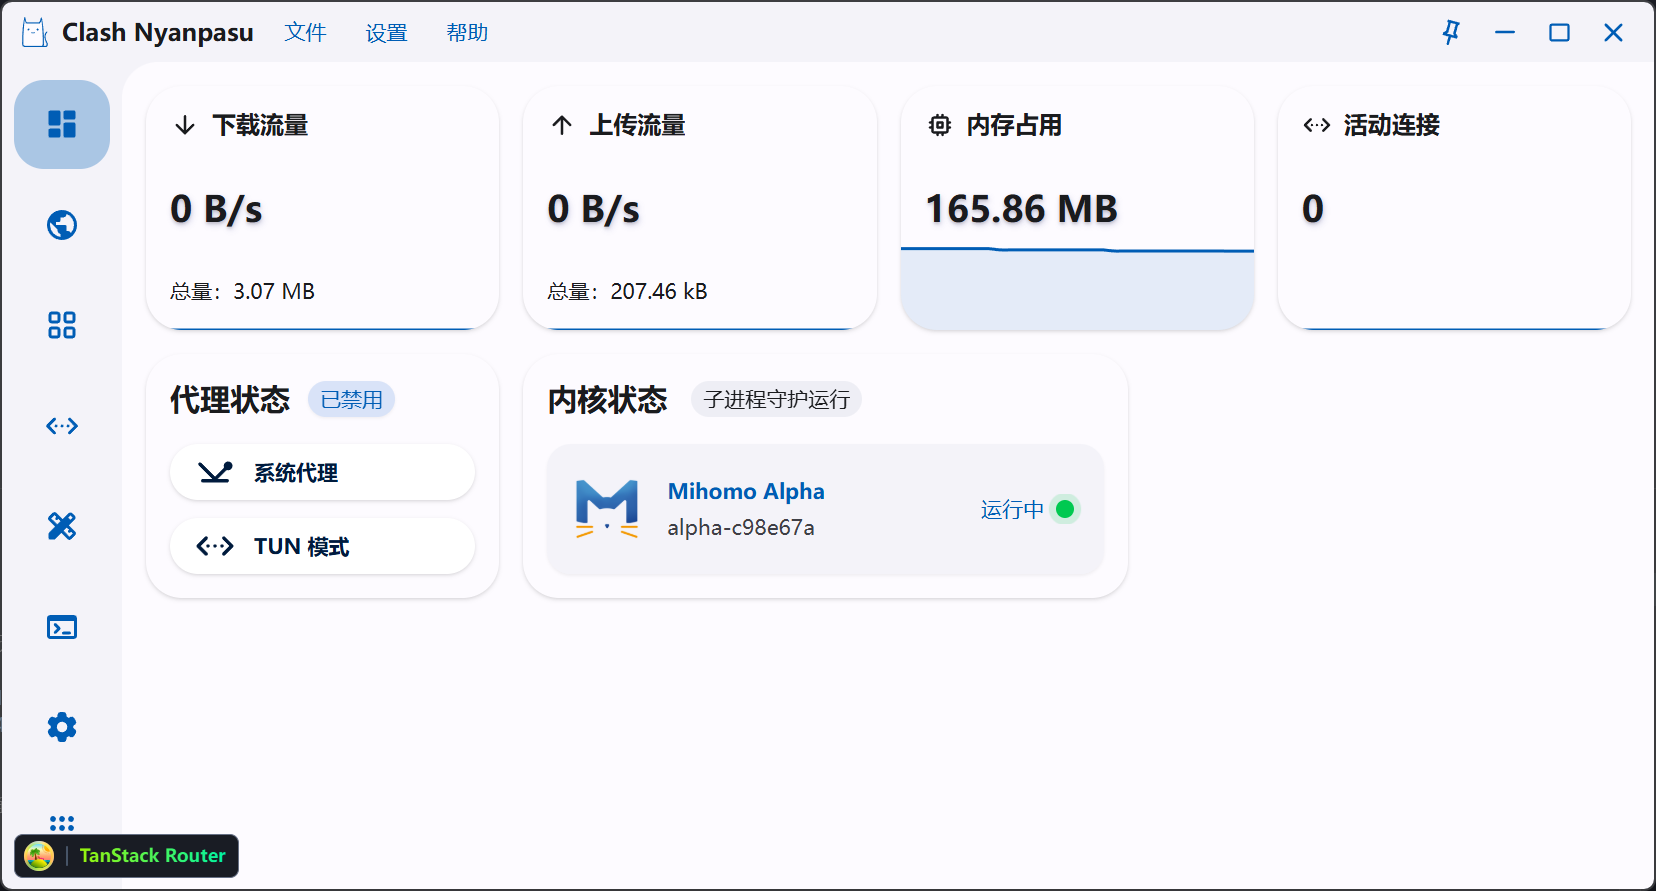
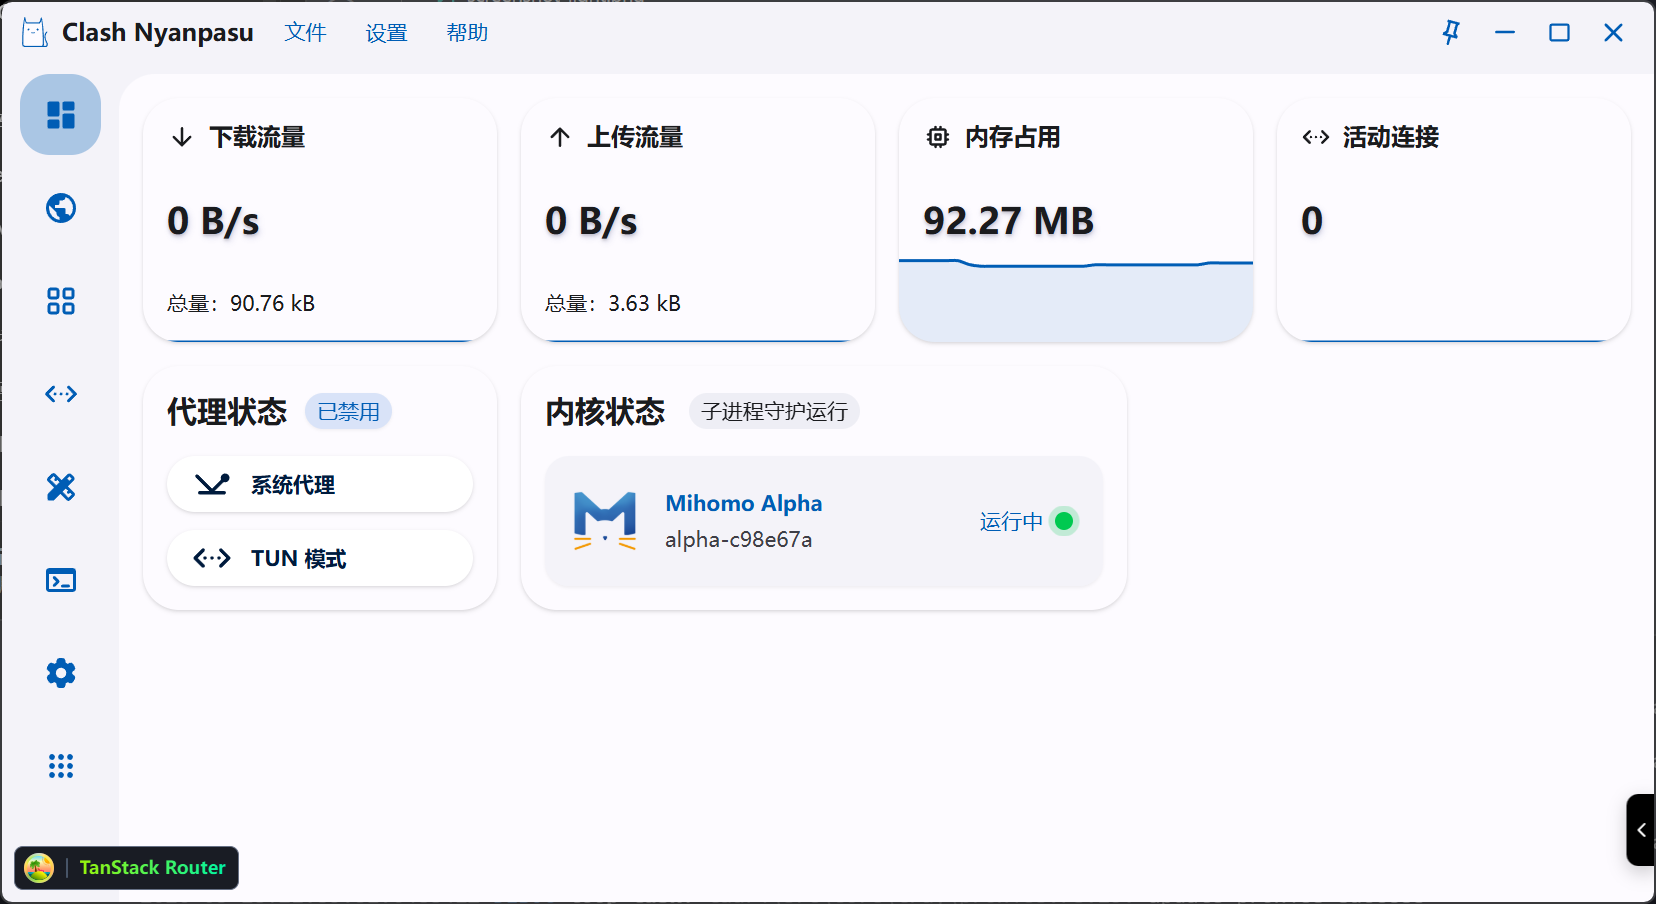
fix(styles): improve CSS formatting and adjust background color definitions

diff --git a/custom-css-example/legacy/style.css b/custom-css-example/legacy/style.css
@@ -7,11 +7,9 @@ app-header {
 }
 
 app-content-container {
+  padding-top: 8px;
   flex-direction: row;
   align-items: stretch;
-}
-
-app-content-container {
   background-color: color-mix(in oklab, var(--color-surface-variant) 30%, transparent);
 }
 
@@ -30,13 +28,13 @@ app-navbar {
   flex-direction: column;
   flex-shrink: 0;
   gap: 8px;
-  padding: 12px 8px;
+  padding: 0px 12px 8px 12px;
   background-color: transparent;
 }
 
 navbar-button {
-  width: 64px;
-  height: 64px !important;
+  width: 54px;
+  height: 54px !important;
   border-radius: 20px;
 }
 